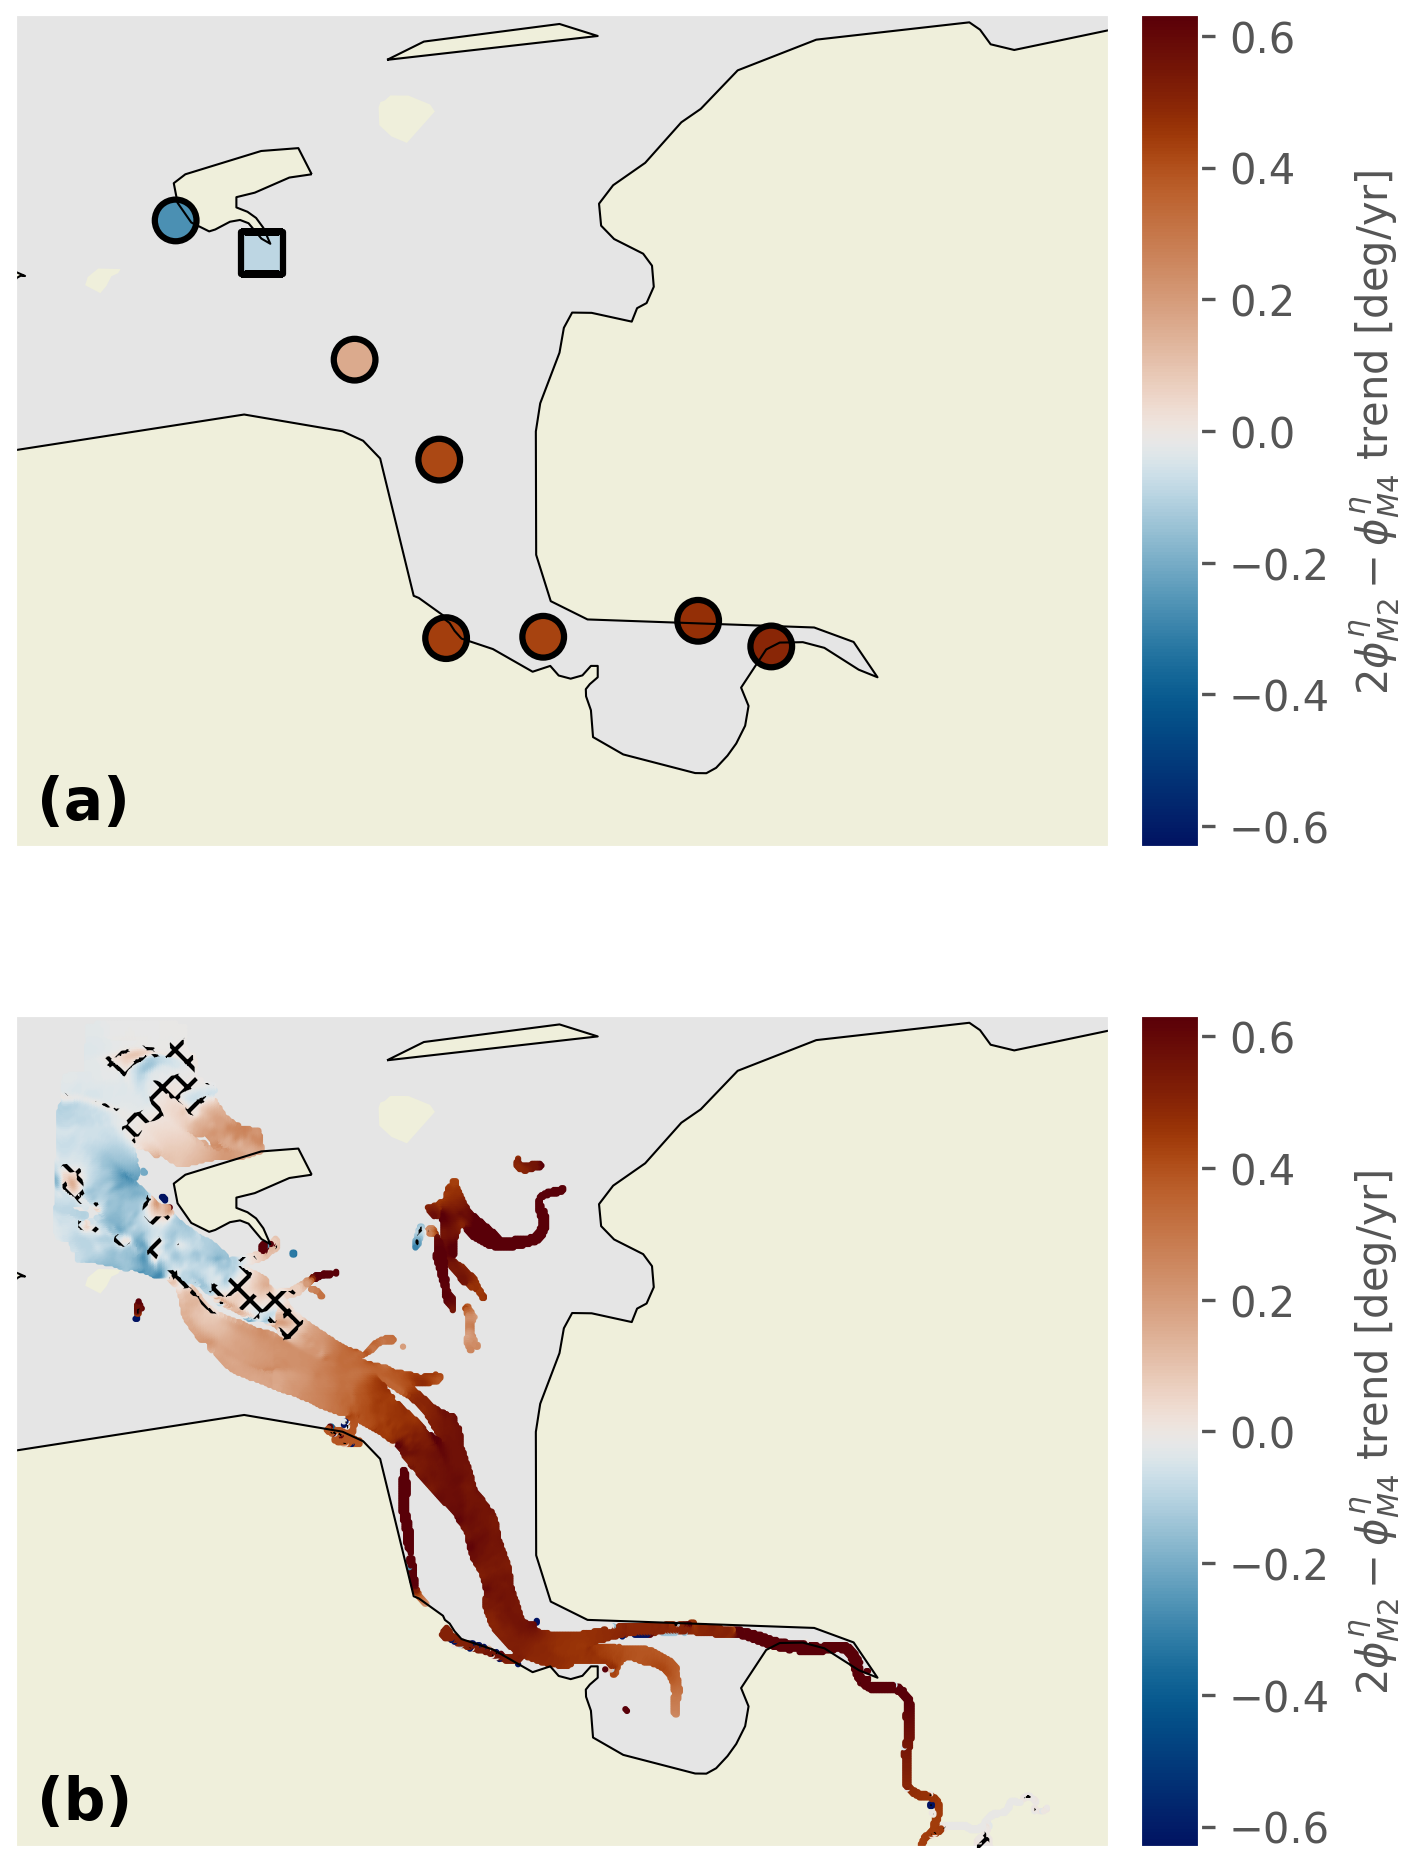
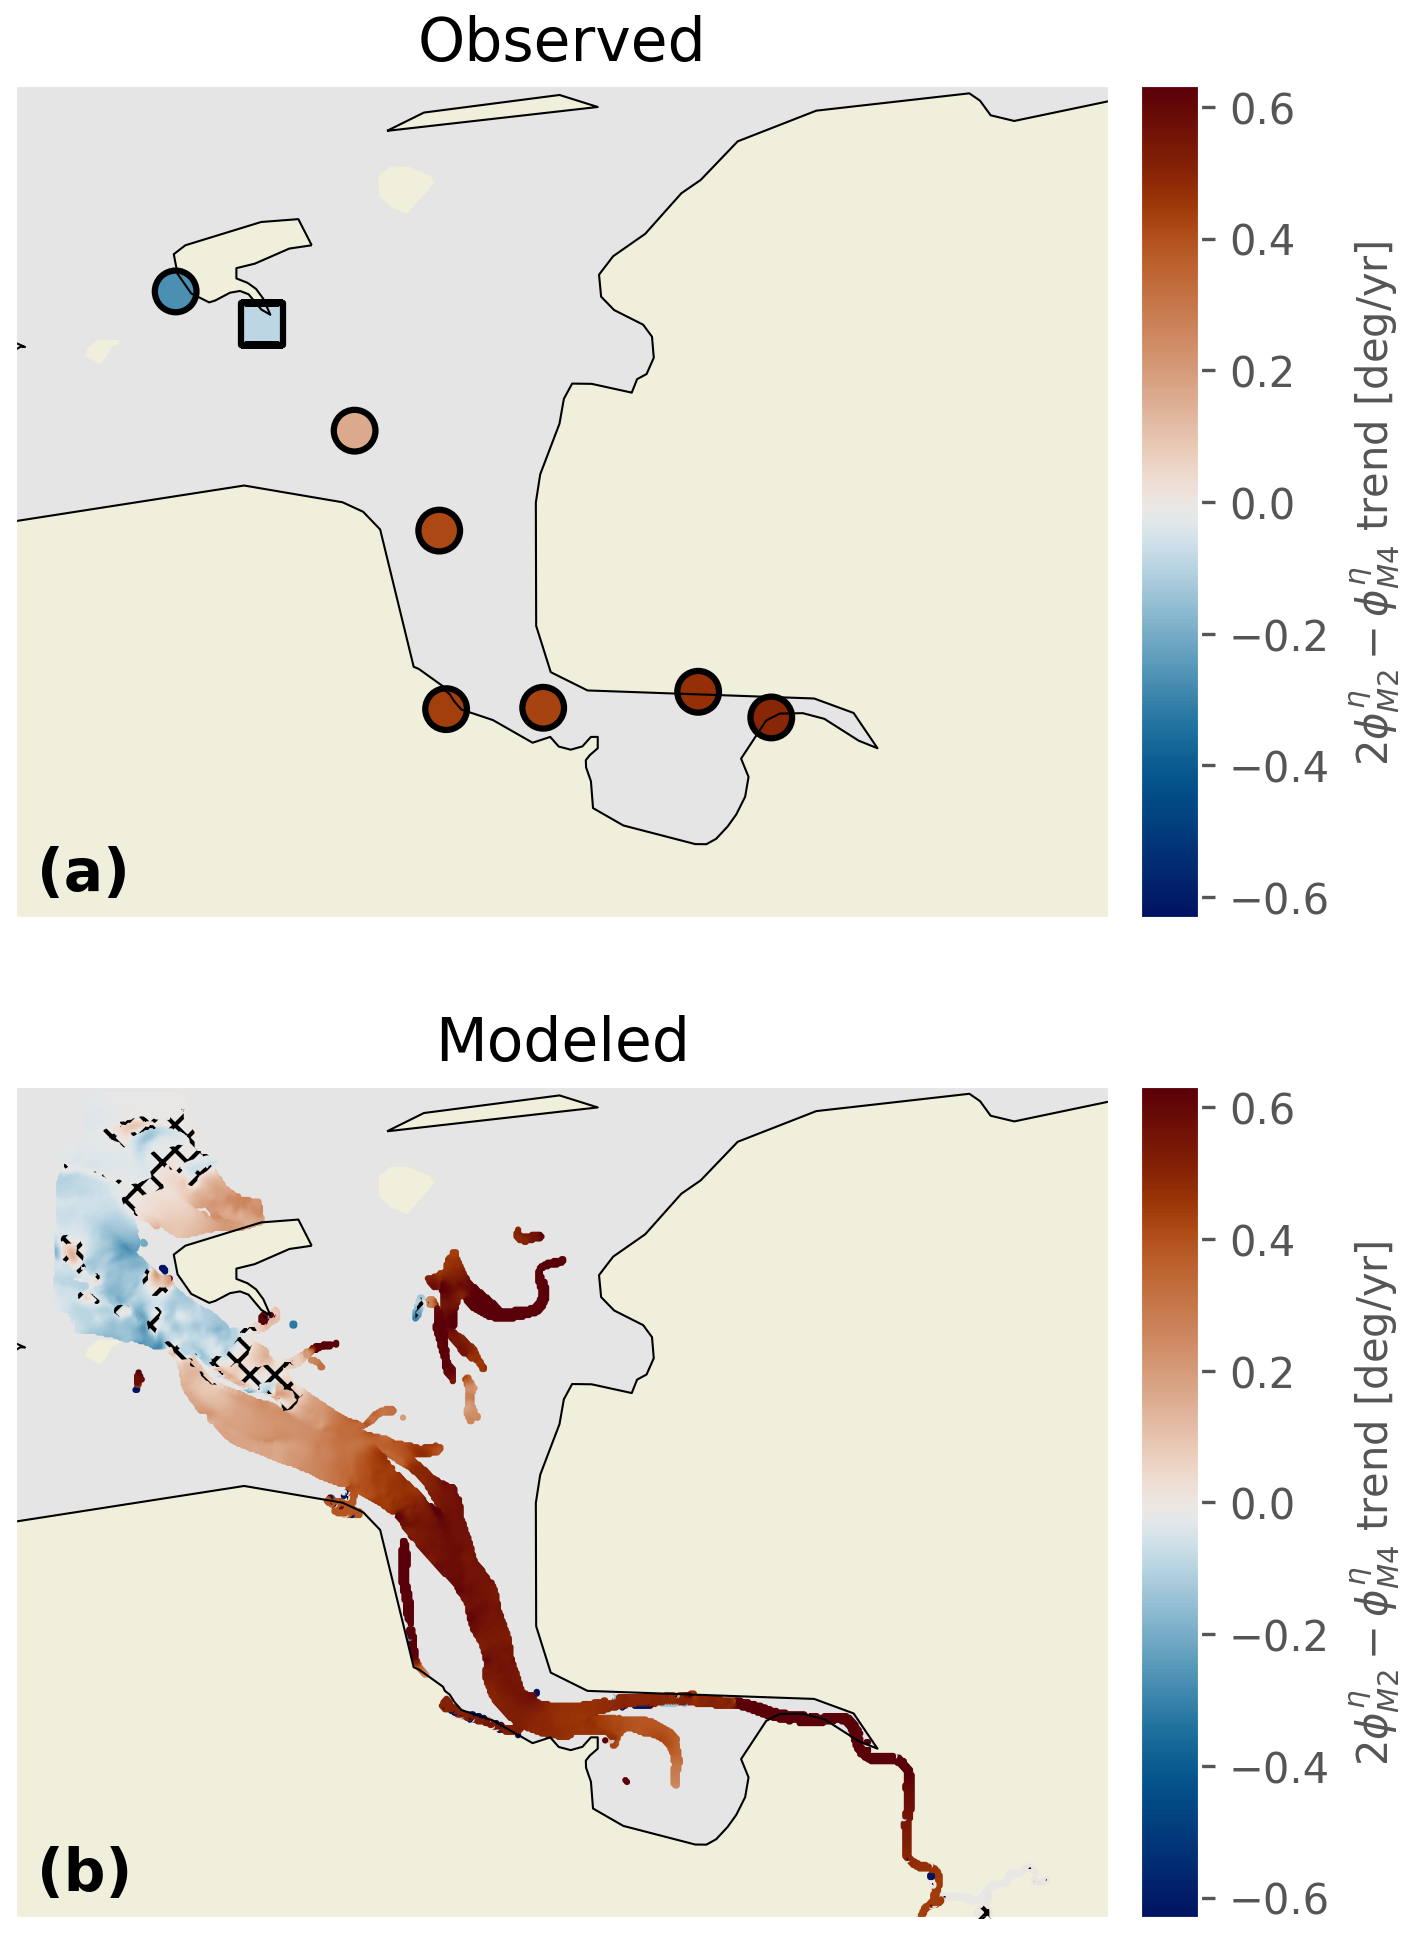
added static meteo figure and added titles figure 4

diff --git a/scripts/visualization/Figure3.py b/scripts/visualization/Figure3.py
@@ -104,3 +104,43 @@ ax.legend()
 plt.subplots_adjust(hspace=0.3)
 fig.supylabel("{} elevation phase lag [deg]".format(phase_lag_string), x=0.05)
 fig.savefig('../../figures/Figure3.png', dpi=300, bbox_inches='tight', pad_inches=0.05)
+
+
+# Static meteo plot
+
+DCSM_phase_lags_station1_static_meteo_1996 = np.load('../../processed_time_series/DCSM/{}_phase_lags_{}_static_meteo_1996.npy'.format(phase_lag_string, station1))
+DCSM_phase_lags_station1_static_meteo_2022 = np.load('../../processed_time_series/DCSM/{}_phase_lags_{}_static_meteo_2022.npy'.format(phase_lag_string, station1))
+DCSM_phase_lags_station2_static_meteo_1996 = np.load('../../processed_time_series/DCSM/{}_phase_lags_{}_static_meteo_1996.npy'.format(phase_lag_string, station2))
+DCSM_phase_lags_station2_static_meteo_2022 = np.load('../../processed_time_series/DCSM/{}_phase_lags_{}_static_meteo_2022.npy'.format(phase_lag_string, station2))
+
+fig, axes = plt.subplots(nrows=2, figsize=(10, 7))
+ax = axes[0]
+ax.plot(years, observed_phase_lags_station1, label='Observed')
+ax.plot(years[np.isfinite(observed_phase_lags_station1)], A@xhat_tg1, linestyle='dashed', 
+        label='Fit ({:.2f} $\pm$ {:.2f} deg/yr'.format(xhat_tg1[1], trend_sigma_tg1), color='r')
+ax.plot(years, DCSM_phase_lags_station1_static_meteo_1996, label='Modeled meteo 1996', color='k')
+ax.plot(years, DCSM_phase_lags_station1_static_meteo_2022, linestyle='dashed', label='Modeled meteo 2022', color='k')
+# ax.plot(years[np.isfinite(observed_phase_lags_station1)], A@xhat_DCSM1, linestyle='dashed', 
+#         label='Fit ({:.2f} $\pm$ {:.2f} deg/yr'.format(xhat_DCSM1[1], trend_sigma_DCSM1), color='k')
+ax.legend()
+ax.set_title(station1_display_name)
+ax.text(0.02, 0.95, "(a)", transform=ax.transAxes, fontsize=14, fontweight='bold',
+             ha="left", va="top")
+
+
+ax = axes[1]
+ax.plot(years, observed_phase_lags_station2)
+ax.plot(years[np.isfinite(observed_phase_lags_station2)], A@xhat_tg2, linestyle='dashed', 
+        label='Fit ({:.2f} $\pm$ {:.2f} deg/yr'.format(xhat_tg2[1], trend_sigma_tg2), color='r')
+ax.plot(years, DCSM_phase_lags_station2_static_meteo_1996, color='k')
+ax.plot(years, DCSM_phase_lags_station2_static_meteo_2022, linestyle='dashed', color='k')
+# ax.plot(years[np.isfinite(observed_phase_lags_station2)], A@xhat_DCSM2, linestyle='dashed', 
+#         label='Fit ({:.2f} $\pm$ {:.2f} deg/yr'.format(xhat_DCSM2[1], trend_sigma_DCSM2), color='k')
+ax.set_xlabel('Year')
+ax.set_title(station2_display_name)
+ax.text(0.02, 0.95, "(b)", transform=ax.transAxes, fontsize=14, fontweight='bold',
+             ha="left", va="top")
+ax.legend()
+plt.subplots_adjust(hspace=0.3)
+fig.supylabel("{} elevation phase lag [deg]".format(phase_lag_string), x=0.05)
+fig.savefig('../../figures/Figure3_static_meteo.png', dpi=300, bbox_inches='tight', pad_inches=0.05)

diff --git a/scripts/visualization/Figure4.py b/scripts/visualization/Figure4.py
@@ -152,6 +152,7 @@ def main():
         clb.set_label('$2\phi^\eta_{M2} - \phi^\eta_{M4}$ trend [deg/yr]', fontsize=10)
     ax.text(0.02, 0.02, '(a)', transform=ax.transAxes,
             fontsize=14, fontweight='bold', va='bottom', ha='left')
+    ax.set_title('Observed')
     
     
     ax = fig.add_subplot(2, 1, 2, projection=ccrs.Mercator())
@@ -171,7 +172,7 @@ def main():
         clb.set_label('$2\phi^\eta_{M2} - \phi^\eta_{M4}$ trend [deg/yr]', fontsize=10)
     ax.text(0.02, 0.02, '(b)', transform=ax.transAxes,
             fontsize=14, fontweight='bold', va='bottom', ha='left')
-    
+    ax.set_title('Modeled')
     
     fig.savefig('../../figures/Figure4.png', dpi=300, bbox_inches='tight', pad_inches=0.05)
 
